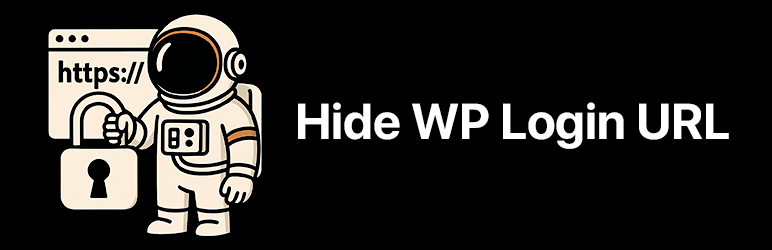
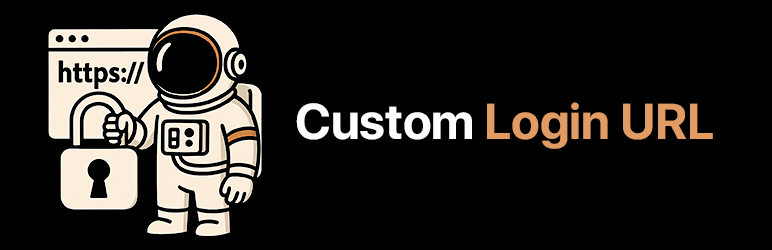
Update nama plugin

Changed region(s): [[0.3731, 0.392, 0.9637, 0.616]]

diff --git a/custom-login-url.php b/custom-login-url.php
@@ -1,12 +1,14 @@
 <?php
 /*
-Plugin Name: Hide WP Login URL
-Description: Mengganti wp-login.php dan wp-admin ke URL kustom.
-Version: 1.0
+Plugin Name: Custom Login URL
+Plugin URI: https://github.com/FahmiRabbani/custom-login-url
+Description: Ganti wp-login.php dan wp-admin dengan URL login kustom yang bisa Anda tentukan. Sembunyikan URL login WordPress Anda untuk keamanan ekstra.
+Version: 1.0.0
 Author: Fahmi M. Rabbani
 Author URI: https://wafiqdigital.com
-Plugin URI: https://wafiqdigital.com/hide-wp-login-url
 License: GPL2
+License URI: https://www.gnu.org/licenses/gpl-2.0.html
+Text Domain: custom-login-url
 */
 
 

diff --git a/custom-login-url.md b/custom-login-url.md
@@ -1,0 +1,36 @@
+=== Custom Login URL ===
+Contributors: fahmirabbani
+Tags: login, hide login, change wp-login.php, custom login url, security
+Requires at least: 5.0
+Tested up to: 6.5
+Stable tag: 1.0.0
+License: GPLv2 or later
+License URI: https://www.gnu.org/licenses/gpl-2.0.html
+
+Ganti URL login WordPress Anda dari wp-login.php ke tautan khusus yang Anda tentukan. Tingkatkan keamanan situs Anda dari bot dan serangan brute-force.
+
+== Description ==
+
+**Custom Login URL** memungkinkan Anda untuk:
+- Menyembunyikan halaman `wp-login.php` dan `wp-admin`
+- Mengalihkan URL login ke tautan yang Anda tentukan, misalnya: `example.com/loginku`
+- Menambahkan pengaturan di menu *Settings > Custom Login URL*
+- Menonaktifkan fitur kapan saja melalui toggle di pengaturan
+
+== Installation ==
+
+1. Unggah folder `custom-login-url` ke direktori `/wp-content/plugins/`
+2. Aktifkan plugin melalui menu 'Plugins' di WordPress
+3. Masuk ke *Settings > Custom Login URL* untuk mengatur slug login Anda
+4. Simpan dan gunakan URL baru untuk login ke situs Anda
+
+== Changelog ==
+
+= 1.0.0 =
+* Rilis pertama. Menyediakan fitur penggantian URL login WordPress.
+
+== Frequently Asked Questions ==
+
+= Bagaimana jika saya lupa URL login baru saya? =
+Nonaktifkan plugin melalui FTP atau file manager untuk kembali ke URL login default (`wp-login.php`).
+
